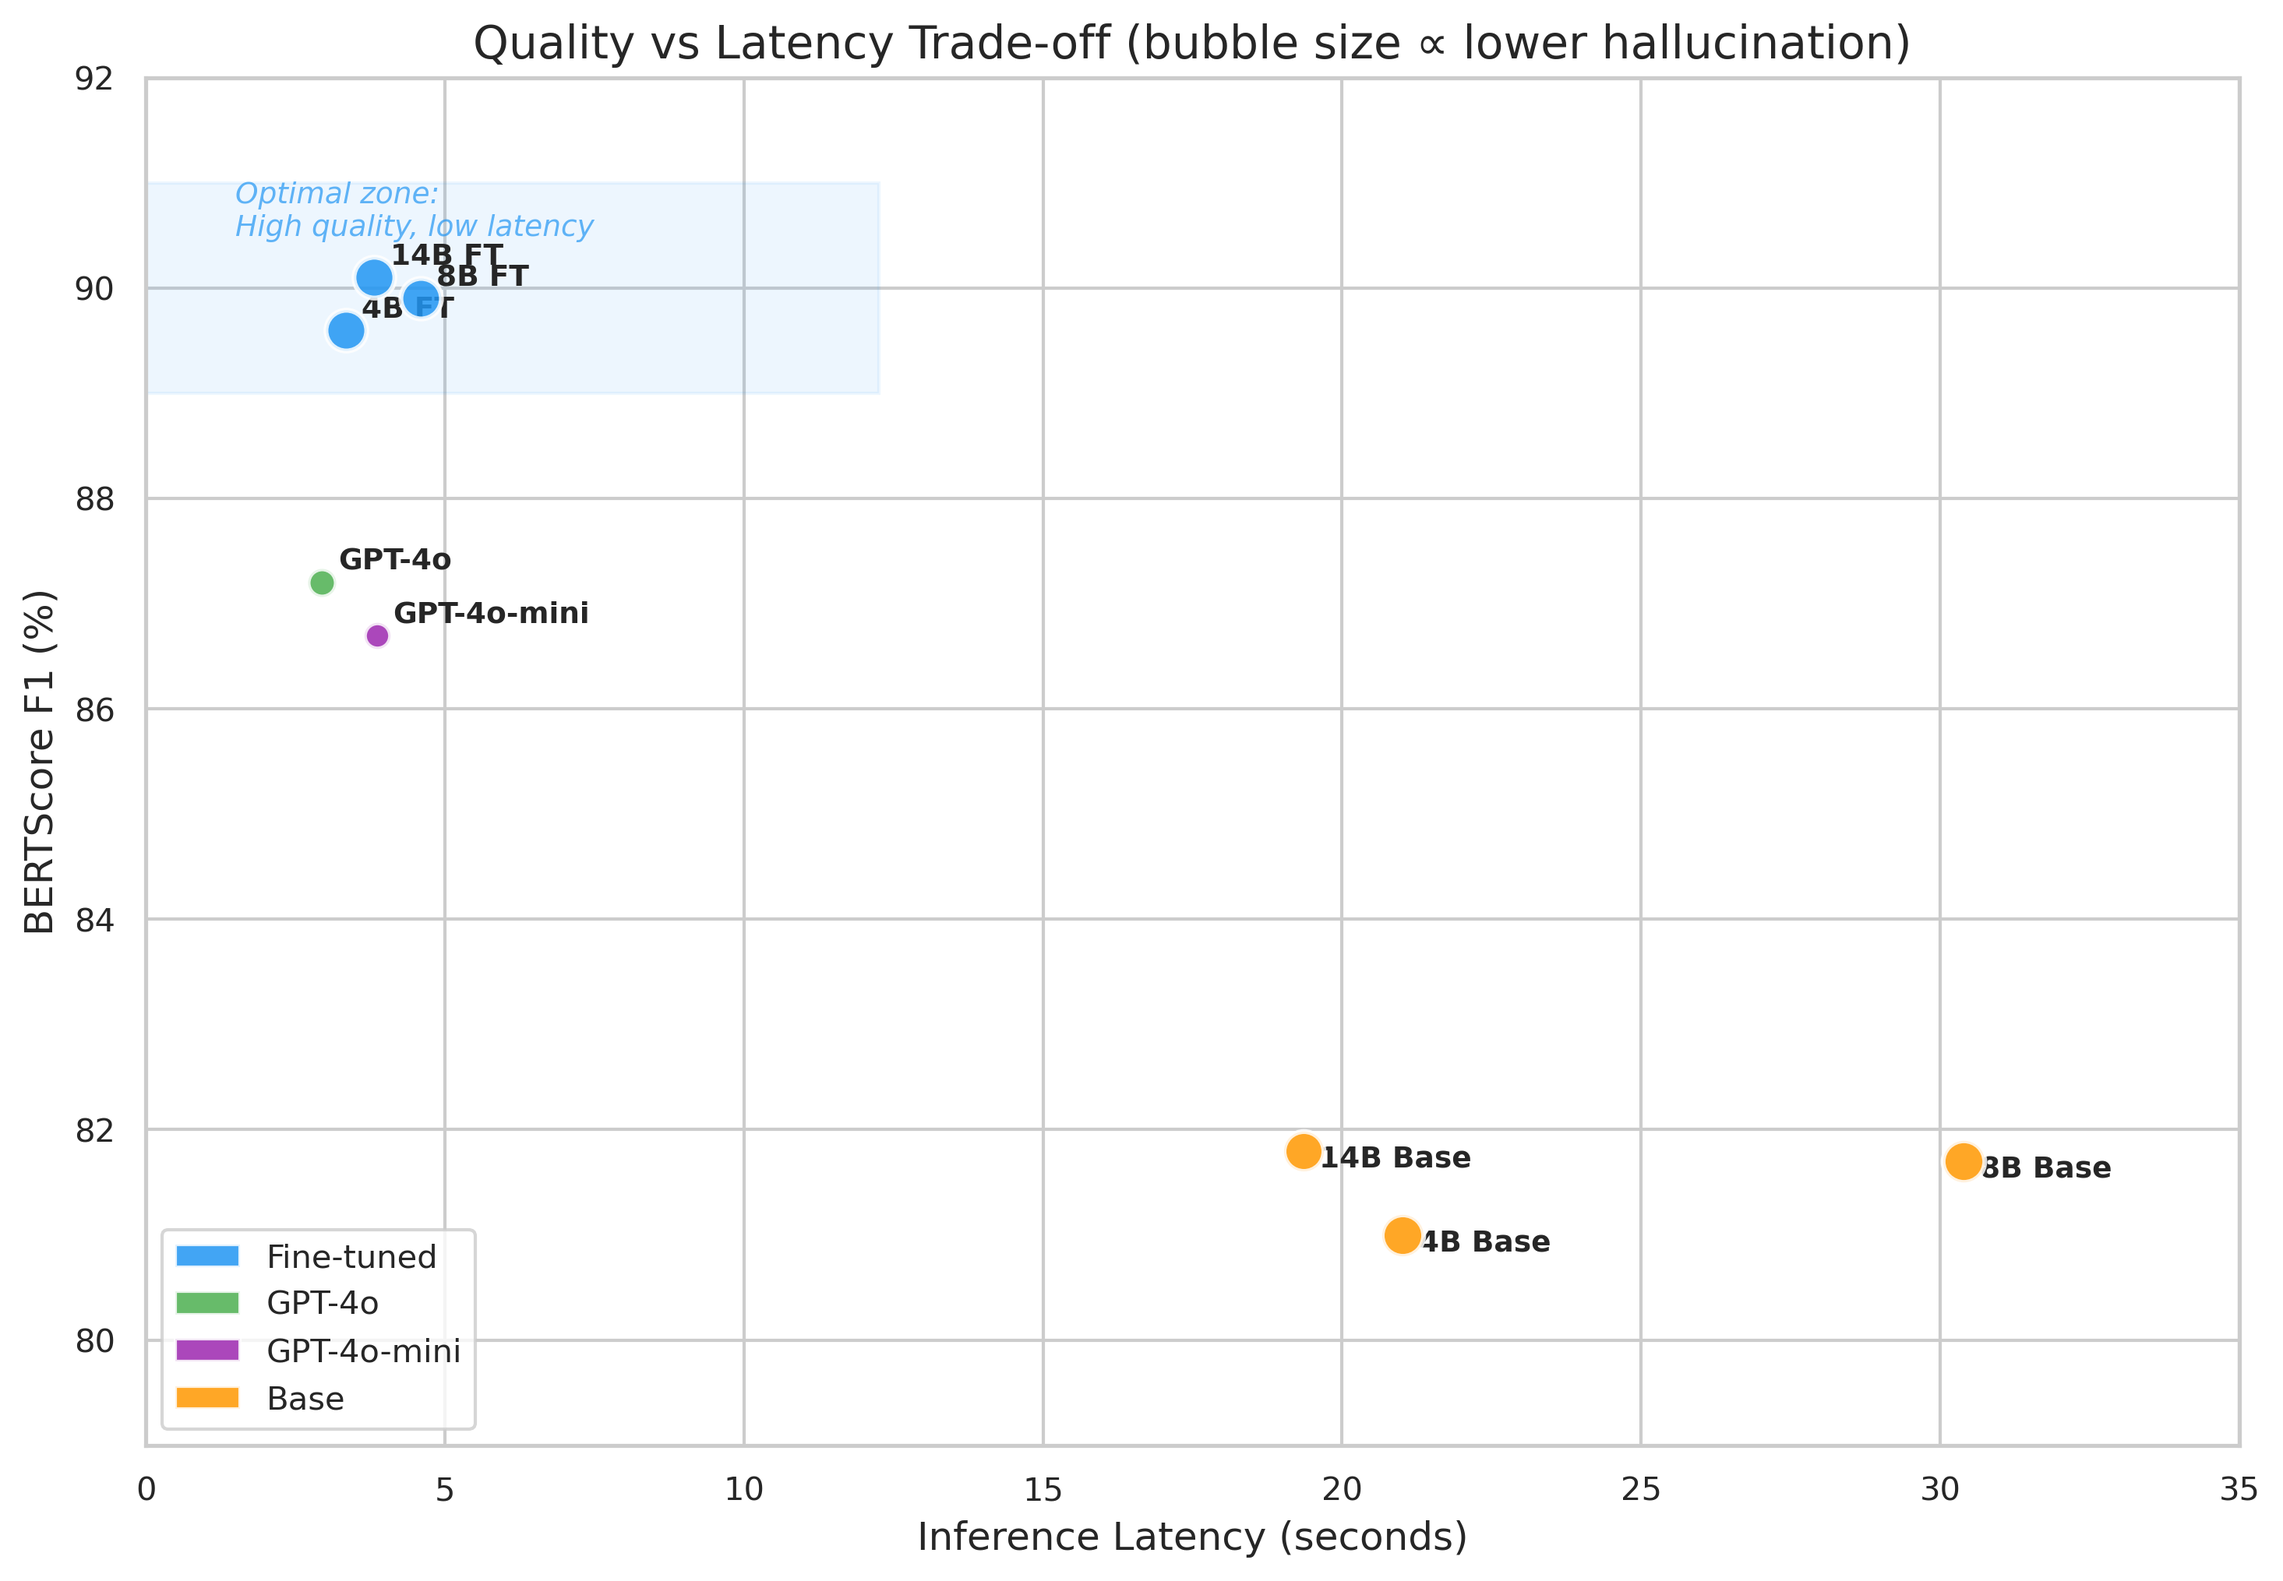
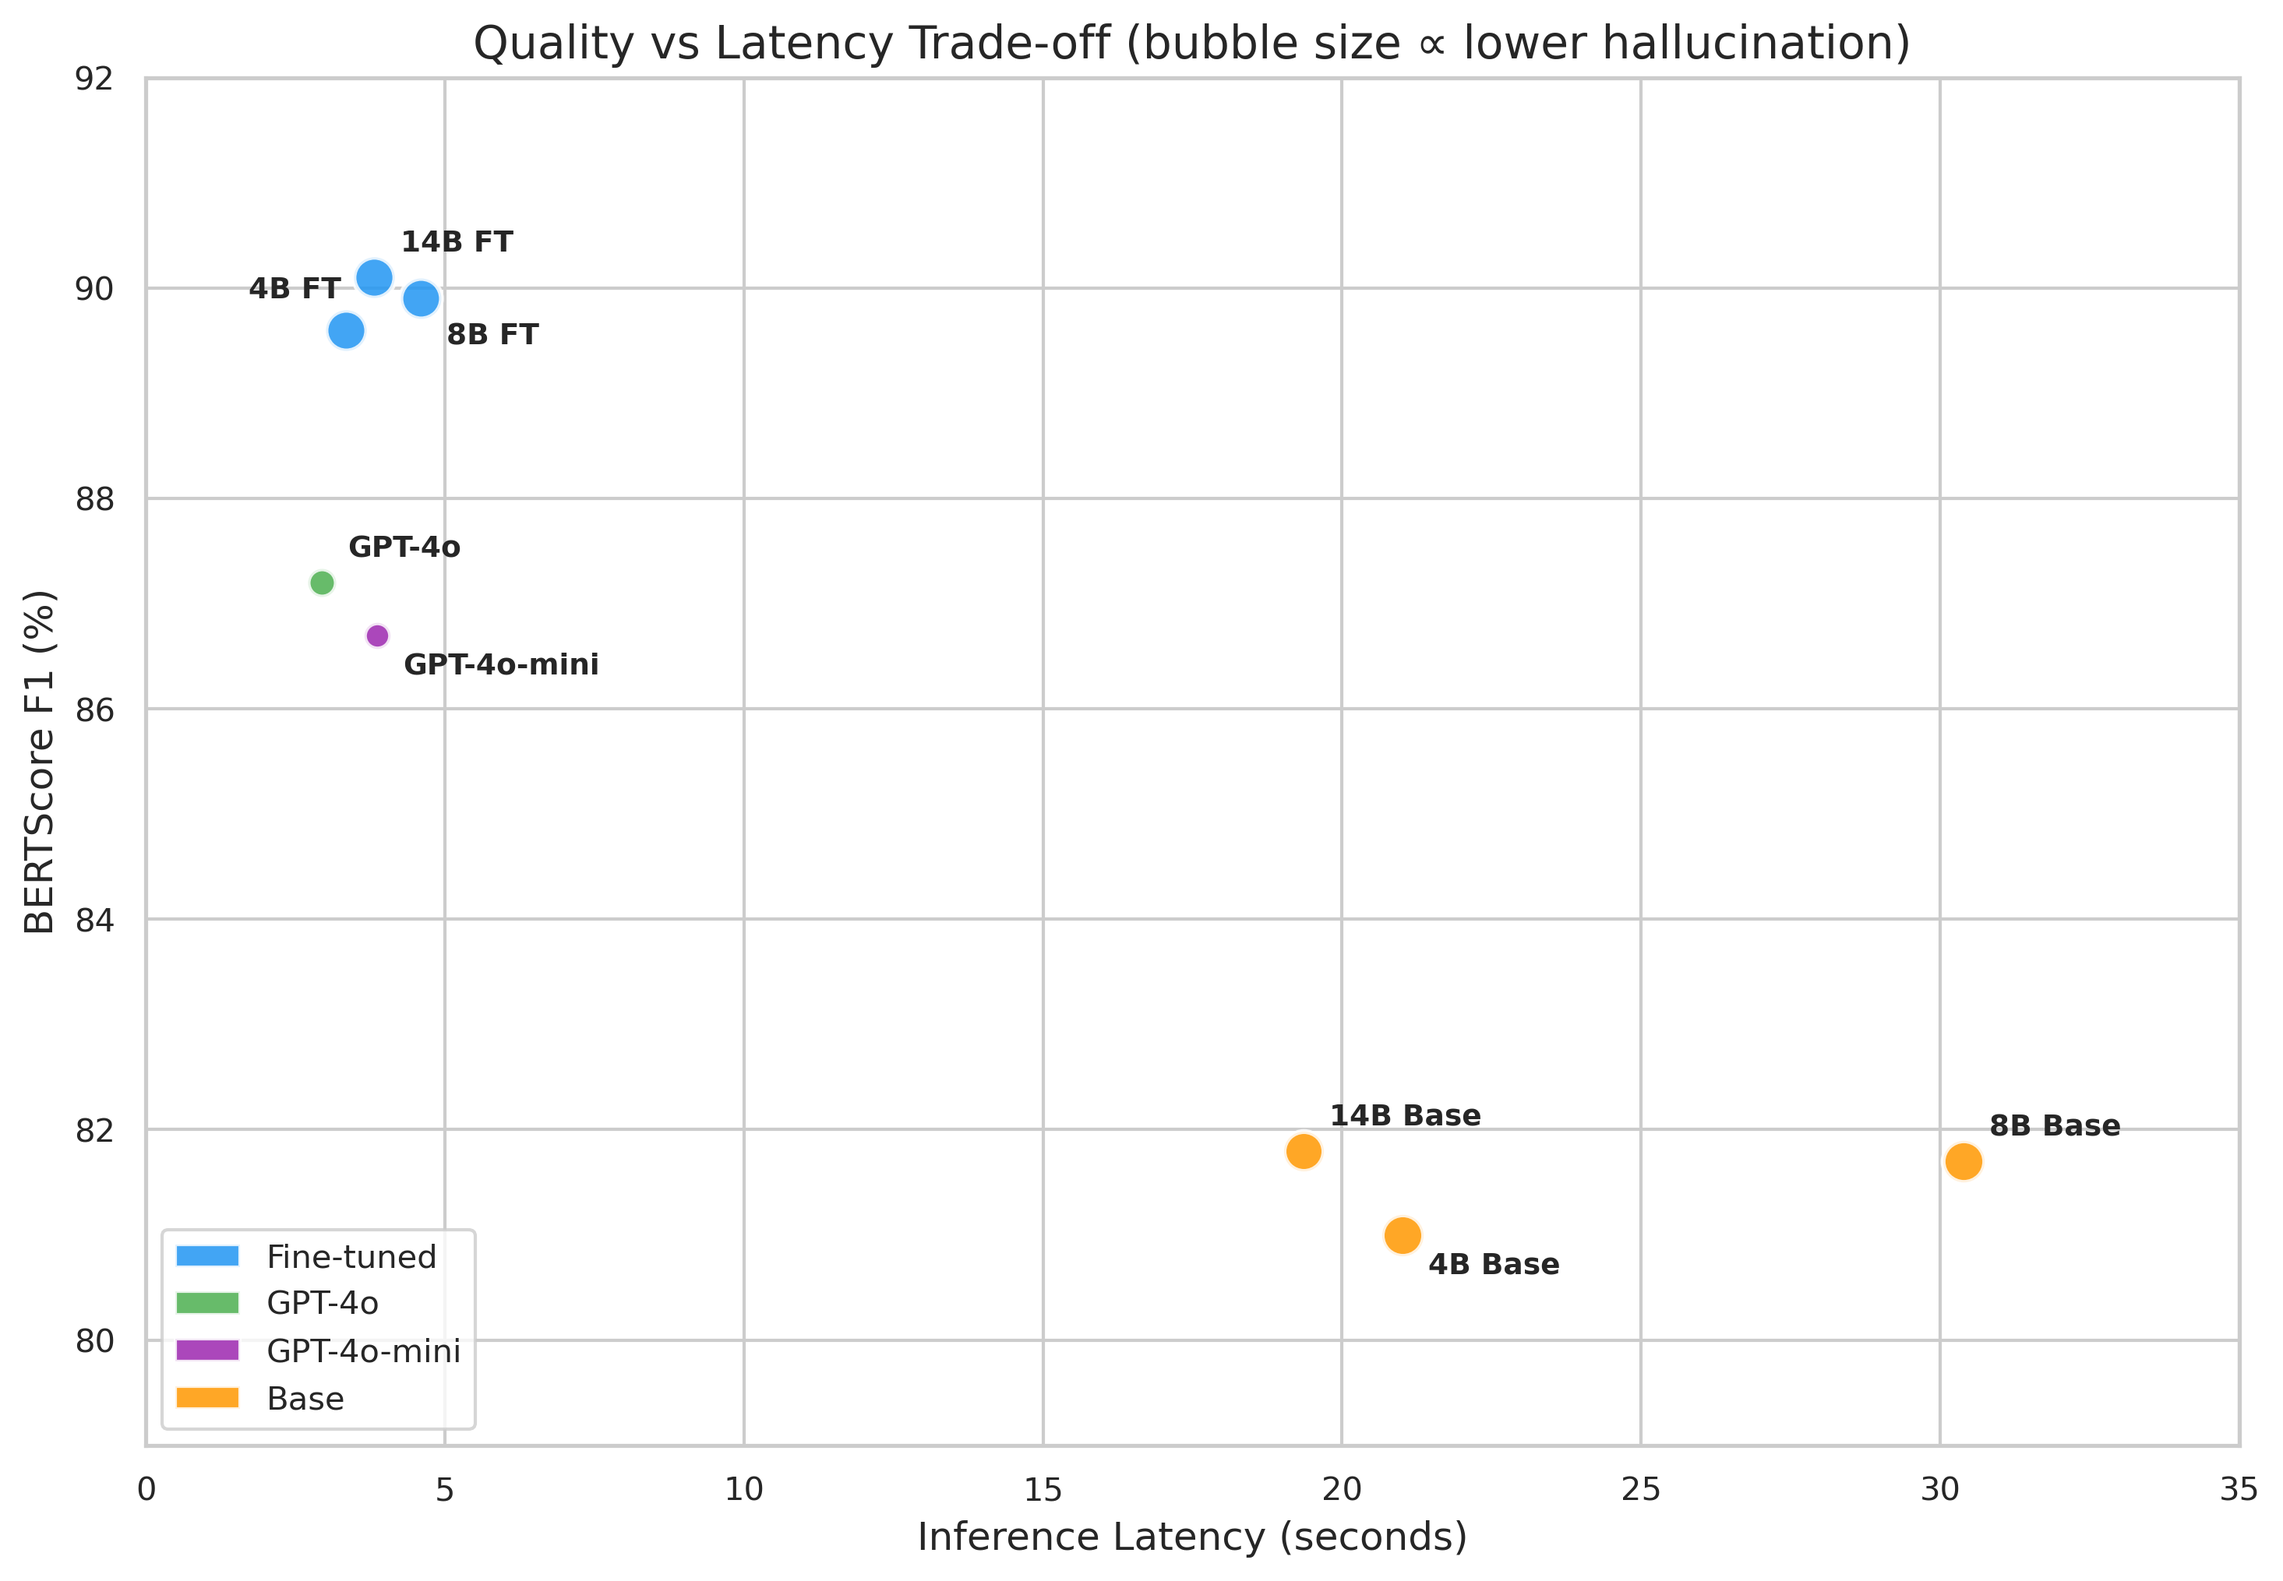
Remove RAG figure, fix legend overlaps in scaling and latency charts
- Removed fig5_rag_ablation.png (RAG removed from paper)
- fig2: moved GPT-4o/mini labels to left side to avoid bar overlap
- fig8: per-model label offsets to prevent FT label clustering,
  removed "optimal zone" overlay that obscured data points

diff --git a/generate_figures.py b/generate_figures.py
@@ -129,9 +129,9 @@ def fig2_scaling():
 
     # Add GPT-4o reference lines
     ax1.axhline(y=87.2, color=COLORS['gpt4o'], linestyle='--', alpha=0.7, linewidth=1.5)
-    ax1.text(2.4, 87.4, 'GPT-4o', color=COLORS['gpt4o'], fontsize=9, ha='right')
+    ax1.text(-0.4, 87.4, 'GPT-4o (87.2)', color=COLORS['gpt4o'], fontsize=8, ha='left')
     ax1.axhline(y=86.7, color=COLORS['gpt4o_mini'], linestyle=':', alpha=0.7, linewidth=1.5)
-    ax1.text(2.4, 86.0, 'GPT-4o-mini', color=COLORS['gpt4o_mini'], fontsize=9, ha='right')
+    ax1.text(-0.4, 85.9, 'GPT-4o-mini (86.7)', color=COLORS['gpt4o_mini'], fontsize=8, ha='left')
 
     # Citation Accuracy
     bars3 = ax2.bar(x - w/2, ft_cit, w, yerr=ft_cit_ci, capsize=5,
@@ -148,7 +148,7 @@ def fig2_scaling():
     ax2.bar_label(bars4, fmt='%.1f', padding=3, fontsize=9)
 
     ax2.axhline(y=76.3, color=COLORS['gpt4o'], linestyle='--', alpha=0.7, linewidth=1.5)
-    ax2.text(2.4, 76.6, 'GPT-4o', color=COLORS['gpt4o'], fontsize=9, ha='right')
+    ax2.text(-0.4, 76.8, 'GPT-4o (76.3)', color=COLORS['gpt4o'], fontsize=8, ha='left')
 
     plt.tight_layout()
     plt.savefig(OUT / "fig2_scaling_analysis.png")
@@ -400,21 +400,26 @@ def fig8_latency_quality():
     colors = [COLORS['ft']]*3 + [COLORS['gpt4o'], COLORS['gpt4o_mini']] + [COLORS['base']]*3
     sizes = [200 - h*1.5 for h in halluc]  # Larger = less hallucination
 
+    # Per-model label offsets to avoid overlap
+    label_offsets = {
+        '14B FT':      (8, 8),
+        '8B FT':       (8, -14),
+        '4B FT':       (-30, 10),
+        'GPT-4o':      (8, 8),
+        'GPT-4o-mini': (8, -12),
+        '14B Base':    (8, 8),
+        '8B Base':     (8, 8),
+        '4B Base':     (8, -12),
+    }
     for i, (m, b, l, h, c, s) in enumerate(zip(models, bert, latency, halluc, colors, sizes)):
-        ax.scatter(l, b, s=max(s, 40), c=c, alpha=0.85, edgecolors='white', linewidth=1.5, zorder=5)
-        offset_y = 0.4 if 'Base' not in m else -0.5
-        offset_x = 0.5
+        ax.scatter(l, b, s=max(s, 50), c=c, alpha=0.85, edgecolors='white', linewidth=1.5, zorder=5)
+        ox, oy = label_offsets.get(m, (8, 8))
         ax.annotate(m, (l, b), textcoords='offset points',
-                   xytext=(offset_x*10, offset_y*10), fontsize=9, fontweight='bold')
+                   xytext=(ox, oy), fontsize=9, fontweight='bold')
 
     ax.set_xlabel('Inference Latency (seconds)')
     ax.set_ylabel('BERTScore F1 (%)')
     ax.set_title('Quality vs Latency Trade-off (bubble size ∝ lower hallucination)')
-
-    # Highlight the optimal zone
-    ax.axhspan(89, 91, xmin=0, xmax=0.35, alpha=0.08, color=COLORS['ft'])
-    ax.text(1.5, 90.5, 'Optimal zone:\nHigh quality, low latency', fontsize=9,
-            color=COLORS['ft'], alpha=0.7, style='italic')
 
     ax.set_xlim(0, 35)
     ax.set_ylim(79, 92)
@@ -443,7 +448,6 @@ if __name__ == "__main__":
     fig2_scaling()
     fig3_domain()
     fig4_language()
-    fig5_rag()
     fig6_human_eval()
     fig7_model_comparison()
     fig8_latency_quality()
